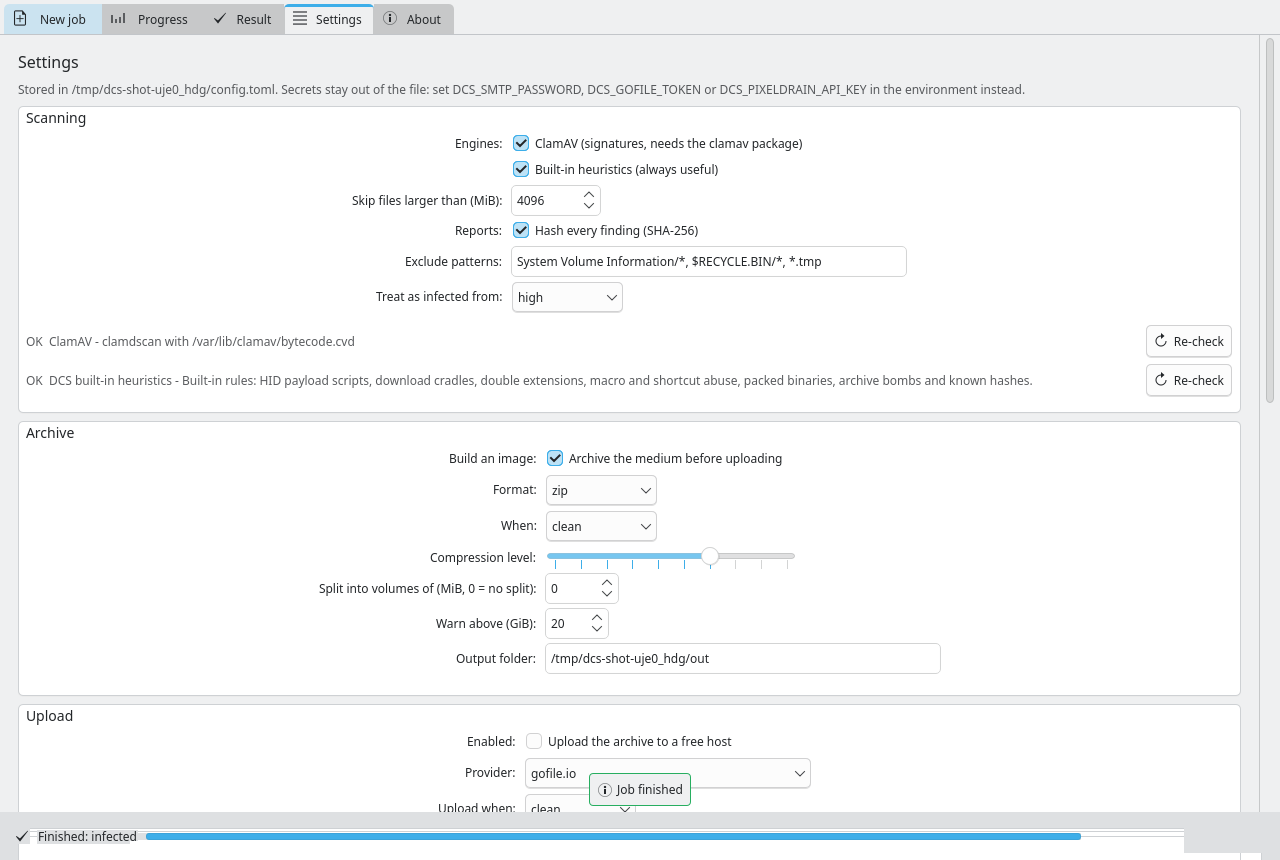
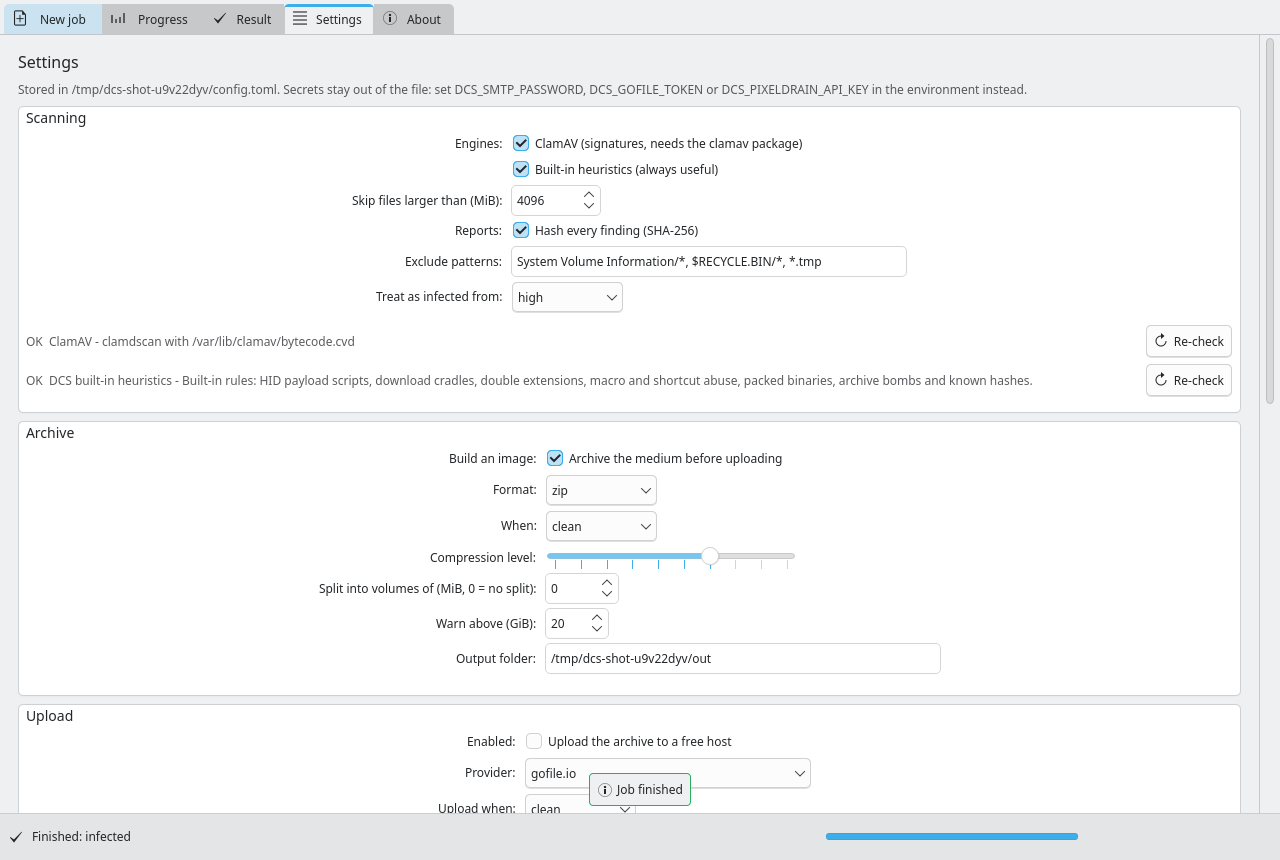
Fix the status bar rendering and the screenshots that showed it half drawn
The status bar came out about two thirds of its height, cut off after roughly
eighteen of its forty-seven pixels, and the screenshots carried that artefact.

Two causes, both fixed:

- The window footer slot is filled by a styled container.  Both
  Kirigami.AbstractApplicationHeader and a ToolBar with an explicit height paint
  their background at their own implicit height, while the window content (which
  Kirigami raises above everything) covers the rest of the slot.  The status bar
  is now the last row of the page layout, where it is exactly as tall as it says
  it is; measured in a real Plasma session, its background now reaches the bottom
  edge of the window.
- The offscreen platform reused a stale copy of the region the bar grew into, so
  a correct layout still produced an image with a short bar.  The screenshot
  script nudges the window size by one pixel and back before every grab, which
  forces a full repaint, and it verifies the result: an image whose status bar
  does not reach the bottom edge is retried and, if it stays wrong, the script
  exits instead of writing a half drawn screenshot.

A test pins the geometry (the bar ends at the bottom of the window and the
footer slot stays empty) and the README keeps the screenshots plus the
maintainer's own banner, which this change does not touch.

Changed region(s): [[0.0, 0.9372, 1.0, 1.0], [0.125, 0.0907, 0.8125, 0.1209], [0.5, 0.7558, 0.5625, 0.786]]

diff --git a/src/dcs/gui/qml/Main.qml b/src/dcs/gui/qml/Main.qml
@@ -50,9 +50,8 @@ Kirigami.ApplicationWindow {
         title: ""
 
         // Kirigami builds a toolbar row for the current page and reserves its
-        // height (48 px with Breeze) even when it has nothing to show: no title,
-        // no actions, no drawer.  This interface brings its own tab bar, so that
-        // row would only be an empty band above it.
+        // height (48 px with Breeze) even when there is no title, no action and
+        // no drawer to show, which left an empty band above the tab bar.
         globalToolBarStyle: Kirigami.ApplicationHeaderStyle.None
 
         ColumnLayout {
@@ -121,60 +120,81 @@ Kirigami.ApplicationWindow {
                 }
                 AboutView {}
             }
-        }
-    }
 
-    footer: Kirigami.AbstractApplicationHeader {
-        height: backend.state === "idle" ? 0 : implicitHeight
-
-        RowLayout {
-            anchors.fill: parent
-            anchors.leftMargin: Kirigami.Units.largeSpacing
-            anchors.rightMargin: Kirigami.Units.largeSpacing
-            spacing: Kirigami.Units.largeSpacing
-
-            Kirigami.Icon {
-                source: backend.state === "running" ? "process-working"
-                        : backend.state === "finished" ? "dialog-ok-apply"
-                        : backend.state === "failed" ? "dialog-error" : "dialog-information"
-                implicitWidth: Kirigami.Units.iconSizes.small
-                implicitHeight: Kirigami.Units.iconSizes.small
-            }
-
-            Controls.Label {
-                text: {
-                    if (backend.state === "running") {
-                        return "Working on " + (backend.sourceLabel || "the selected medium");
-                    }
-                    if (backend.state === "finished") {
-                        return "Finished: " + (backend.summary.verdict || "");
-                    }
-                    if (backend.state === "failed") {
-                        return "The job failed";
-                    }
-                    return "Idle";
-                }
-                elide: Text.ElideMiddle
-                Layout.maximumWidth: root.width / 2
-            }
-
-            DcsProgressBar {
+            // The status bar is the last row of this column rather than the
+            // window's footer.  A styled footer container paints its background
+            // at its own implicit height while the window content (which
+            // Kirigami raises above it) covers the rest, so the bar used to be
+            // drawn about two thirds tall: a half visible footer.
+            Rectangle {
+                id: statusBar
+                objectName: "statusBar"
                 Layout.fillWidth: true
+                Layout.preferredHeight: visible ? Kirigami.Units.gridUnit * 2.6 : 0
                 visible: backend.state !== "idle"
-                value: backend.overallPercent
-                indeterminate: backend.state === "running" && backend.overallPercent <= 0.001
-            }
+                color: Kirigami.Theme.alternateBackgroundColor
 
-            Kirigami.ActionToolBar {
-                alignment: Qt.AlignRight
-                actions: [
-                    Kirigami.Action {
-                        text: "Cancel"
-                        icon.name: "process-stop"
-                        visible: backend.state === "running"
-                        onTriggered: cancelDialog.open()
+                Rectangle {
+                    anchors.top: parent.top
+                    anchors.left: parent.left
+                    anchors.right: parent.right
+                    height: 1
+                    color: Qt.rgba(Kirigami.Theme.textColor.r, Kirigami.Theme.textColor.g,
+                                   Kirigami.Theme.textColor.b, 0.12)
+                }
+
+                RowLayout {
+                    anchors.fill: parent
+                    anchors.leftMargin: Kirigami.Units.largeSpacing
+                    anchors.rightMargin: Kirigami.Units.largeSpacing
+                    spacing: Kirigami.Units.largeSpacing
+
+                    Kirigami.Icon {
+                        source: backend.state === "running" ? "process-working"
+                                : backend.state === "finished" ? "dialog-ok-apply"
+                                : backend.state === "failed" ? "dialog-error" : "dialog-information"
+                        implicitWidth: Kirigami.Units.iconSizes.small
+                        implicitHeight: Kirigami.Units.iconSizes.small
                     }
-                ]
+
+                    Controls.Label {
+                        text: {
+                            if (backend.state === "running") {
+                                return "Working on " + (backend.sourceLabel || "the selected medium");
+                            }
+                            if (backend.state === "finished") {
+                                return "Finished: " + (backend.summary.verdict || "");
+                            }
+                            if (backend.state === "failed") {
+                                return "The job failed";
+                            }
+                            return "Idle";
+                        }
+                        elide: Text.ElideRight
+                        Layout.fillWidth: true
+                        Layout.minimumWidth: Kirigami.Units.gridUnit * 8
+                    }
+
+                    DcsProgressBar {
+                        Layout.preferredWidth: Kirigami.Units.gridUnit * 14
+                        Layout.maximumWidth: Math.max(Kirigami.Units.gridUnit * 14, root.width * 0.35)
+                        visible: backend.state !== "idle"
+                        value: backend.overallPercent
+                        indeterminate: backend.state === "running" && backend.overallPercent <= 0.001
+                    }
+
+                    Kirigami.ActionToolBar {
+                        alignment: Qt.AlignRight
+                        actions: [
+                            Kirigami.Action {
+                                text: "Cancel"
+                                icon.name: "process-stop"
+                                visible: backend.state === "running"
+                                onTriggered: cancelDialog.open()
+                            }
+                        ]
+                    }
+                }
             }
         }
     }

diff --git a/scripts/make-screenshots.py b/scripts/make-screenshots.py
@@ -23,6 +23,7 @@ import sys
 import tempfile
 import time
 from pathlib import Path
+from typing import Any
 
 REPO = Path(__file__).resolve().parent.parent
 sys.path.insert(0, str(REPO / "src"))
@@ -35,9 +36,9 @@ from PyQt6.QtGui import QGuiApplication  # noqa: E402
 from PyQt6.QtQml import QQmlApplicationEngine  # noqa: E402
 from PyQt6.QtQuick import QQuickWindow  # noqa: E402
 
+import dcs.core.device as device_module  # noqa: E402
 from dcs.core.config import load_config  # noqa: E402
 from dcs.core.device import BlockDevice  # noqa: E402
-import dcs.core.device as device_module  # noqa: E402
 from dcs.gui.app import find_qml_imports, qml_directory  # noqa: E402
 from dcs.gui.backend import Backend  # noqa: E402
 
@@ -148,6 +149,13 @@ class Shot:
         config.upload.enabled = False
         config.email.enabled = False
         config.gui.switch_to_result = False
+        # The window is created at its final size.  Resizing it after the first
+        # frame makes the grab capture a half laid out window: the footer ends up
+        # drawn at the old height and the rest is filled with the clear colour,
+        # which is how a footer that really is 48 px tall came out "half visible".
+        config.gui.remember_window_size = True
+        config.gui.window_width = WINDOW_WIDTH
+        config.gui.window_height = WINDOW_HEIGHT
 
         backend = Backend(config, poll_devices=False)
         engine = QQmlApplicationEngine()
@@ -159,11 +167,10 @@ class Shot:
         engine.rootContext().setContextProperty("appName", "Ducky Can Shoot")
         engine.load(QUrl.fromLocalFile(os.path.join(qml_directory(), "Main.qml")))
         window = engine.rootObjects()[0]
-        window.setProperty("width", WINDOW_WIDTH)
-        window.setProperty("height", WINDOW_HEIGHT)
         window.show()
-
         self.pump(app, 0.6)
+        assert window.property("width") == WINDOW_WIDTH, f"window width {window.property('width')}"
+        assert window.property("height") == WINDOW_HEIGHT, f"window height {window.property('height')}"
         backend.refreshDevices()
         backend.selectDevice(0)
         self.tab(window, 0)
@@ -250,9 +257,36 @@ class Shot:
             app.processEvents(QEventLoop.ProcessEventsFlag.AllEvents, 20)
             time.sleep(0.01)
 
-    def shot(self, window: QObject, name: str) -> None:
-        self.pump(QGuiApplication.instance(), 0.4)
+    def shot(self, window: QObject, name: str, *, attempts: int = 4):
+        """Grab the window, and refuse to keep a frame that is not fully rendered.
+
+        QQuickWindow.grabWindow() renders whatever the scene graph has synced: if
+        the layout changed since the previous frame (a tab switch, the footer
+        appearing, a window resize) the first grab can contain a half drawn
+        window.  Grabbing twice and checking that the footer is really inside the
+        image is what keeps a stale frame out of the documentation.
+        """
+        app = QGuiApplication.instance()
         image = QQuickWindow.grabWindow(window)
+        for attempt in range(1, attempts + 1):
+            # The offscreen platform keeps an old copy of the area a widget grew
+            # into, so the status bar comes out about a third of its height unless
+            # the window is repainted: nudging the size by one pixel and back
+            # forces a full repaint.
+            window.setProperty("height", WINDOW_HEIGHT + 1)
+            self.pump(app, 0.25)
+            window.setProperty("height", WINDOW_HEIGHT)
+            self.pump(app, 0.35)
+            image = QQuickWindow.grabWindow(window)
+            if self._frame_is_complete(window, image):
+                break
+            print(f"   retrying {name}: the frame was not painted completely (attempt {attempt})")
+        else:
+            raise SystemExit(
+                f"{name}: the window never rendered completely (the status bar does not reach the "
+                "bottom of the image); refusing to write a half drawn screenshot"
+            )
+
         path = self.output / name
         image.save(str(path))
         colours = {
@@ -261,6 +295,26 @@ class Shot:
             for y in range(0, image.height(), 17)
         }
         print(f"{name}: {image.width()}x{image.height()} colours={len(colours)}")
+        return image
+
+    @staticmethod
+    def _frame_is_complete(window: QObject, image: Any) -> bool:
+        """True when everything the window should show is inside the image."""
+        content = window.contentItem()
+        if image.width() != int(content.width()) or image.height() != int(content.height()):
+            return False
+        status_bar = window.findChild(QObject, "statusBar")
+        if status_bar is None or not status_bar.property("visible"):
+            return True  # nothing at the bottom to check
+        # The status bar is the last row of the page, so its bottom edge has to be
+        # the bottom of the window, and its own colour has to reach that edge.  A
+        # stale frame leaves the window colour there instead.
+        background = image.pixel(4, 4)
+        window_colour = image.pixel(image.width() - 4, image.height() - 4)
+        bottom = image.pixel(image.width() // 2, image.height() - 2)
+        if bottom == background:
+            return False
+        return not (bottom == window_colour and background == window_colour)
 
 
 def main() -> int:

diff --git a/tests/test_gui.py b/tests/test_gui.py
@@ -678,3 +678,47 @@ def test_no_empty_toolbar_band_above_the_navigation(
     assert not toolbar_rows, "the page toolbar row is still being shown"
 
     gui_app.teardown_engine(engine)
+
+def test_status_bar_is_inside_the_page_and_reaches_the_bottom(
+    backend: Backend, qapp: Any, qt_messages: list[str]
+) -> None:
+    """The status bar is the last row of the page, not the window footer.
+
+    Regression test for a footer that came out about two thirds tall: the styled
+    footer container (Kirigami.AbstractApplicationHeader, and a ToolBar with an
+    explicit height) painted its background at its own implicit height while the
+    window content, which Kirigami raises above it, covered the rest.  Keeping
+    the bar inside the page removes the whole class of problem.
+    """
+    from PyQt6.QtCore import QObject, QPointF
+    from PyQt6.QtQuick import QQuickItem
+
+    engine, _ = gui_app.build_engine(backend.config, backend=backend)
+    window = engine.rootObjects()[0]
+    window.show()
+    for _ in range(40):
+        qapp.processEvents()
+        time.sleep(0.01)
+
+    # an item in the footer slot would mean the bar is back where the style
+    # paints it wrong; a null property comes back as a voidptr, not None
+    footer = window.property("footer")
+    assert not isinstance(footer, QQuickItem), "the window footer slot is used again"
+
+    status_bar = window.findChild(QObject, "statusBar")
+    assert status_bar is not None, "the status bar was not found"
+    # the bar only exists while a job runs or just after it; the layout is only
+    # meaningful in that state
+    backend._state = "running"
+    backend.stateChanged.emit()
+    for _ in range(30):
+        qapp.processEvents()
+        time.sleep(0.01)
+    content = window.contentItem()
+    top = status_bar.mapToItem(content, QPointF(0, 0)).y()
+    assert top + status_bar.height() == pytest.approx(content.height(), abs=1.5), (
+        f"the status bar ends at {top + status_bar.height():.1f} instead of the bottom "
+        f"of the window ({content.height():.1f})"
+    )
+
+    gui_app.teardown_engine(engine)

diff --git a/CHANGELOG.md b/CHANGELOG.md
@@ -51,6 +51,16 @@ change between minor releases; each such change is listed below.
   with the local file, so a truncated transfer fails and is retried instead of
   being published. A regression test uploads several megabytes to a local HTTP
   server and asserts every byte arrives.
+- **The status bar is no longer drawn two thirds tall.** The window footer slot
+  is filled by a styled container (Kirigami.AbstractApplicationHeader, and a
+  ToolBar with an explicit height too), which paints its background at its own
+  implicit height while the window content, raised above it by Kirigami, covers
+  the rest: screenshots showed a bar cut off after about eighteen of its
+  forty-seven pixels. The bar is now the last row of the page layout, where it
+  is exactly as tall as it says it is and always reaches the bottom edge.
+  scripts/make-screenshots.py also nudges the window by one pixel before every
+  grab, because the offscreen platform otherwise reuses a stale region, and it
+  refuses to write an image whose status bar does not reach the bottom.
 - **No empty band above the navigation.** Kirigami builds a toolbar row for the
   current page and reserves its height (48 px with the Breeze style) even when
   the page has no title, no actions and no drawer, so after removing the global
